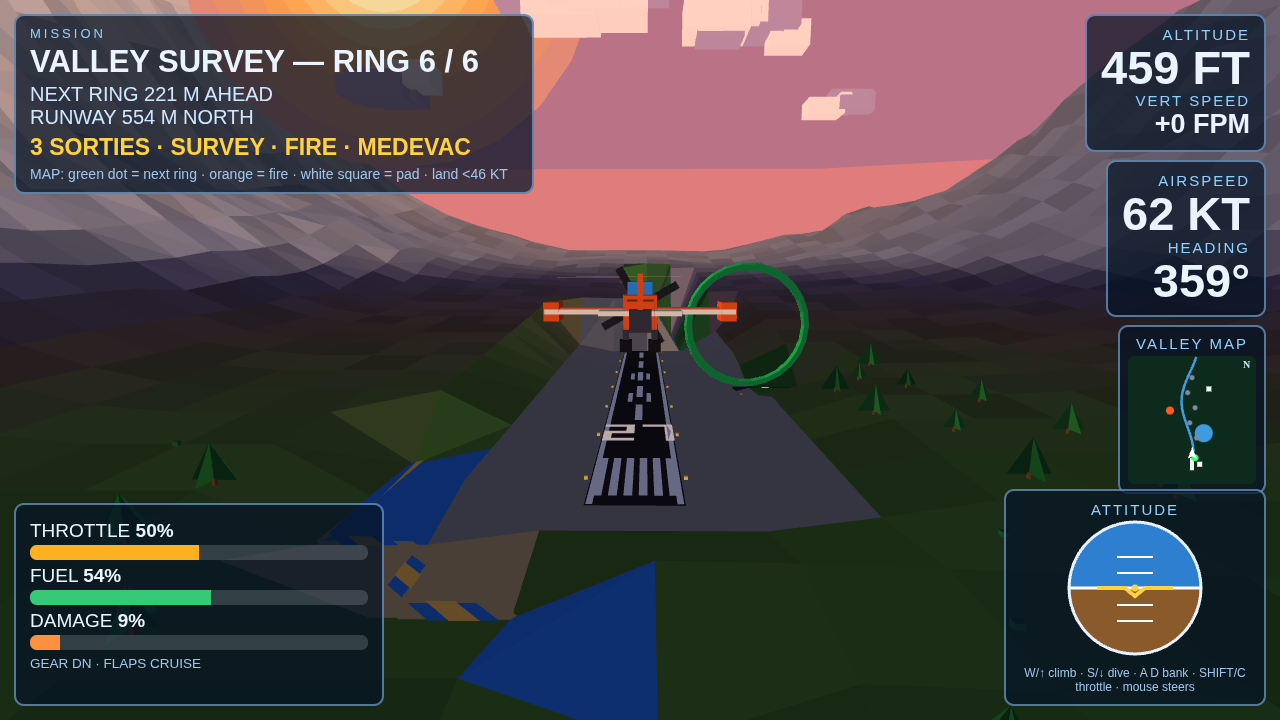
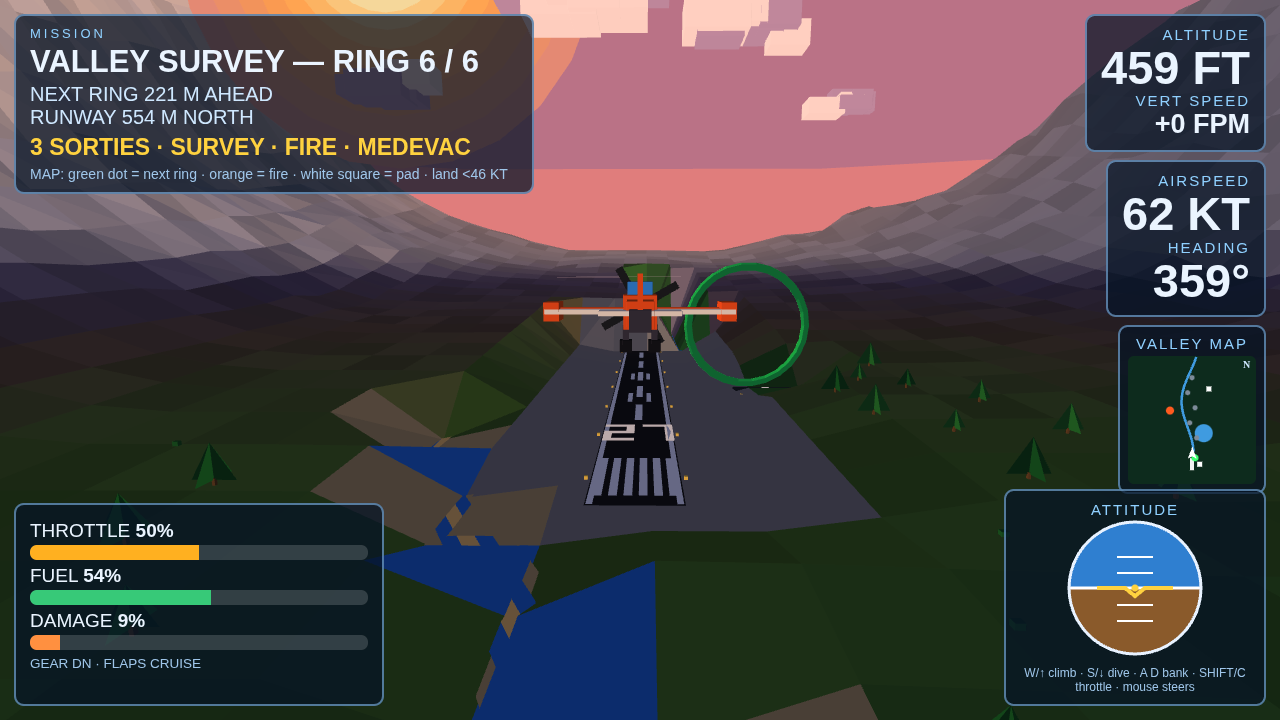
v2 round 5: river swing spread over 320 m and the glint rebuilt as the water's own middle lane — the compressed swing folded the ribbon into stripes at the bend and chopped the cover's foreground river

Changed region(s): [[0.25, 0.5194, 0.5, 1.0], [0.5938, 0.9472, 0.6875, 1.0], [0.3438, 0.5194, 0.375, 0.55]]

diff --git a/game/terrain.js b/game/terrain.js
@@ -18,9 +18,12 @@ const Terrain = (() => {
   function valleyBend(z){ const f = z<-4600 ? Math.max(0, 1-(-z-4600)/500) : 1;
     return (150*Math.sin(z*0.00052)+80*Math.sin(z*0.00127+1.7)) * f; }
   function riverX(z){ const base = valleyBend(z)*0.55 + 90*Math.sin(z*0.0011)+40*Math.sin(z*0.00037);
-    // Past the strip (z < -4900) the river swings west across the valley
-    // floor, so it crosses the cover poster's foreground below the runway.
-    return z<-4900 ? base - 175*Math.min(1,(-z-4900)/160) : base; }
+    // Past the strip the river swings west across the valley floor, so it
+    // crosses the cover poster's foreground below the runway. The swing is
+    // spread over 320 m: compressed into 160 m the centreline shifted
+    // further per ribbon step than the ribbon is wide, folding the ribbon
+    // into stripes at the bend.
+    return z<-4850 ? base - 175*Math.min(1,(-z-4850)/320) : base; }
   function river2X(z){ return 55 + 95*Math.sin(z*0.0021); } // the far reach, beyond the runway (v2: swings right across the view axis past the strip, so the winding river reads in the cover)
   function fbm(x,z){ return noise(x,z)*0.60 + noise(x*2.7,z*2.7)*0.28 + noise(x*6.3,z*6.3)*0.12; }
   // Full plateau |x|<100: every terrain grid vertex under the strip sits at
@@ -49,7 +52,7 @@ const Terrain = (() => {
     const rb = runwayBlend(x,z); if (rb>0) h = h*(1-rb)+10*rb;
     // The west swing past the strip cuts its channel through the apron edge
     // as well, or the plateau blend would bury this reach of the river.
-    if (z<-4900 && z>-5200 && Math.abs(x-riverX(z))<40) h = Math.min(h, 1.5);
+    if (z<-4850 && z>-5250 && Math.abs(x-riverX(z))<40) h = Math.min(h, 1.5);
     if (z<-5760 && z>-6180 && Math.abs(x-river2X(z))<42) h = Math.min(h, 2.0); // far river channel
     // Medevac pads sit dead flat: the clearing pad at the valley floor's own
     // height, the hospital pad at airfield height beside the strip.
@@ -72,9 +75,9 @@ const Terrain = (() => {
   }
   function colorAt(x,z,h,seedKey){
     const rd=Math.abs(x-riverX(z));
-    if (z>-5200 && rd<20 && Math.abs(x)<340 && h<4) return [0.12,0.42,0.80];       // river water
-    if (z>-5200 && rd<42 && Math.abs(x)<340 && h<6) return [0.72,0.60,0.40];       // inner bank
-    if (z>-5200 && rd<58 && Math.abs(x)<340 && h<8) return [0.78,0.66,0.44];       // outer bank
+    if (z>-5250 && rd<20 && Math.abs(x)<340 && h<4) return [0.12,0.42,0.80];       // river water
+    if (z>-5250 && rd<42 && Math.abs(x)<340 && h<6) return [0.72,0.60,0.40];       // inner bank
+    if (z>-5250 && rd<58 && Math.abs(x)<340 && h<8) return [0.78,0.66,0.44];       // outer bank
     const lake=((x-230)/190)**2+((z+3750)/230)**2;
     if (lake<0.82 && h<4) return [0.12,0.44,0.82];                                   // lake water
     if (lake<1.15 && h<8) return [0.78,0.66,0.44];                                   // lake shore
@@ -93,13 +96,20 @@ const Terrain = (() => {
     }
     // The river is a ribbon mesh that follows the curve, bank under water, so
     // it reads as a winding river instead of painted squares.
-    for(let z=300; z>-5200; z-=40){ const cx=riverX(z), cx2=riverX(z-40);
+    for(let z=300; z>-5250; z-=40){ const cx=riverX(z), cx2=riverX(z-40);
       const bank=[0.72,0.60,0.40], water=[0.12,0.42,0.80], wy=2.6;
       b.quad([cx-26,wy-0.5,z],[cx2-26,wy-0.5,z-40],[cx2+26,wy-0.5,z-40],[cx+26,wy-0.5,z],bank);
-      b.quad([cx-15,wy,z],[cx2-15,wy,z-40],[cx2+15,wy,z-40],[cx+15,wy,z],water);
-      // Sun glint: a narrow gold lane down the foreground reach, where the
-      // low sun reflects off the water in the cover view (round 4).
-      if (z<=-4360) b.quad([cx-6.5,wy+0.18,z],[cx2-6.5,wy+0.18,z-40],[cx2+6.5,wy+0.18,z-40],[cx+6.5,wy+0.18,z],[1.0,0.72,0.30]);
+      if (z<=-4360){
+        // Sun glint on the foreground reach, built as the water's own
+        // middle lane (same plane, adjacent, never overlapping): a raised
+        // overlay lane drifted off the water wherever the river bends
+        // sharply and striped the bank instead (round 4 fix).
+        b.quad([cx-15,wy,z],[cx2-15,wy,z-40],[cx2-5,wy,z-40],[cx-5,wy,z],water);
+        b.quad([cx-5,wy,z],[cx2-5,wy,z-40],[cx2+5,wy,z-40],[cx+5,wy,z],[1.0,0.78,0.42]);
+        b.quad([cx+5,wy,z],[cx2+5,wy,z-40],[cx2+15,wy,z-40],[cx+15,wy,z],water);
+      } else {
+        b.quad([cx-15,wy,z],[cx2-15,wy,z-40],[cx2+15,wy,z-40],[cx+15,wy,z],water);
+      }
     }
     // The far reach, beyond the runway's far end (v2: wider and a brighter
     // blue, so the winding river survives the cover's thumbnail test).
